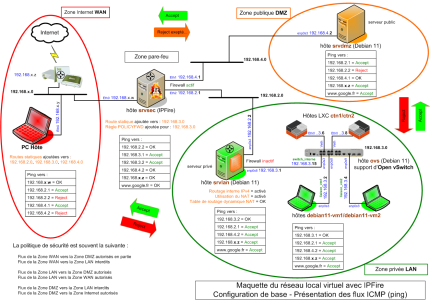
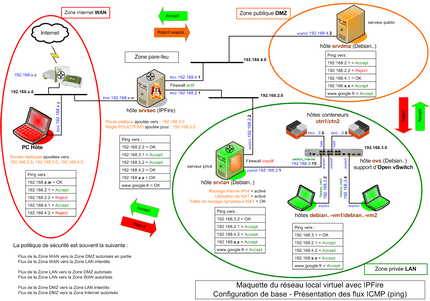
modified:   docs/wp-reseau-virtuel/articles/clients-debian12-vm1-vm2-creation.md 	modified:   docs/wp-reseau-virtuel/wp-content/uploads/2018/05/maquette-base-ipfire-430x301.png 	modified:   docs/wp-reseau-virtuel/wp-content/uploads/2018/05/maquette-base-ipfire.png

diff --git a/docs/wp-reseau-virtuel/articles/clients-debian12-vm1-vm2-creation.md b/docs/wp-reseau-virtuel/articles/clients-debian12-vm1-vm2-creation.md
@@ -504,16 +504,14 @@ _Nota : Si problème d'IP, rebootez la VM et revérifiez._
 Voilà, le réseau virtuel comprend déjà :  
 \- 1 PC hôte _(Windows ou Linux)_  
 \- 3 serveurs virtuels : srvlan, srvsec et srvdmz  
-\- 2 clients virtuels : debian11-vm1 et debian11-vm2  
+\- 2 clients virtuels : debian12-vm1 et debian12-vm2  
   
 \- Le switch virtuel Open vSwitch reste à construire.  
   
 Retrouvez ceux-ci sur la maquette finale :
 
-[![Synoptique - Maquette du réseau local virtuel avec IPFire](/wp-content/uploads/2018/05/maquette-base-ipfire-430x301.png "Cliquez pour agrandir l'image")](/wp-content/uploads/2018/05/maquette-base-ipfire.png)
-
-  
-Configuration de base - Présentation des flux ICMP (ping)
+[![Synoptique - Maquette du réseau local virtuel avec IPFire](../wp-content/uploads/2018/05/maquette-base-ipfire-430x301.png#center "Cliquez pour agrandir l'image")](../wp-content/uploads/2018/05/maquette-base-ipfire.png#center)
+_**Configuration de base - Flux ICMP (ping)**_
 
 #### _3.2 - Préparation du test_
 
